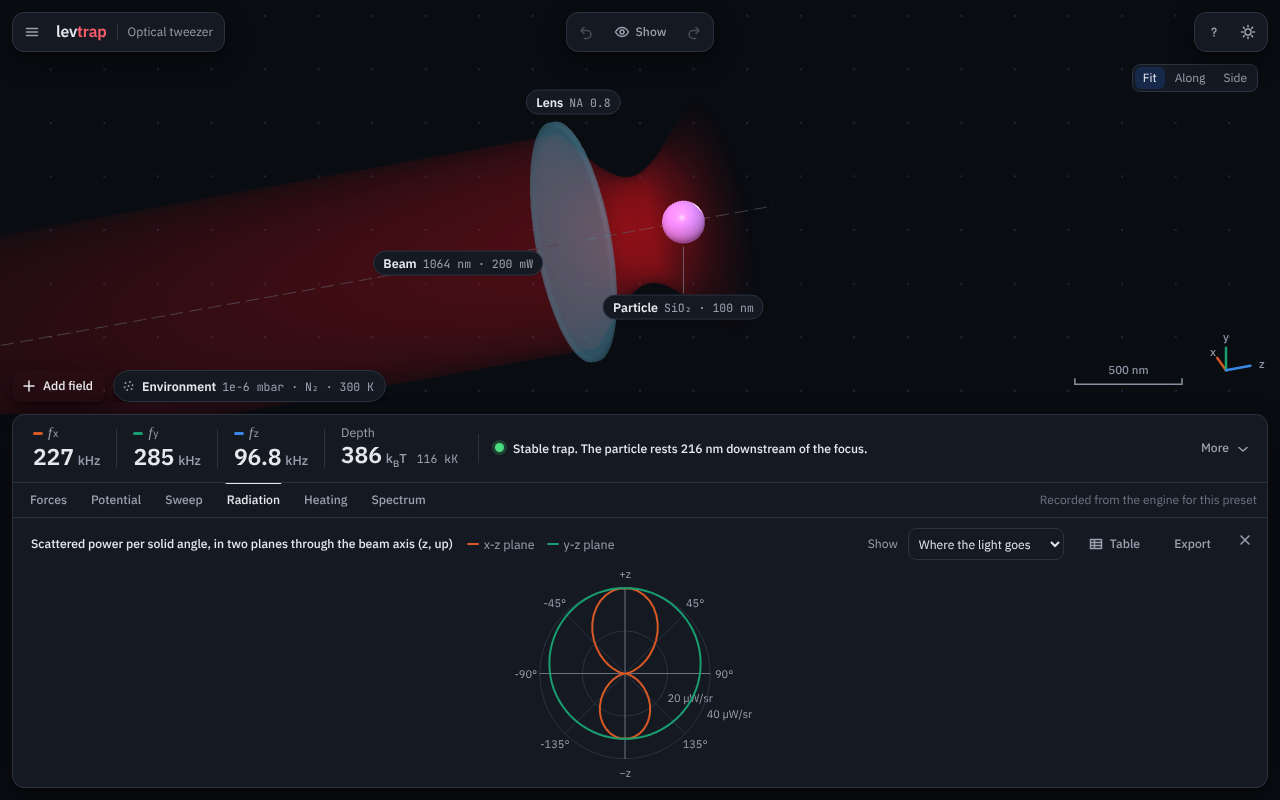
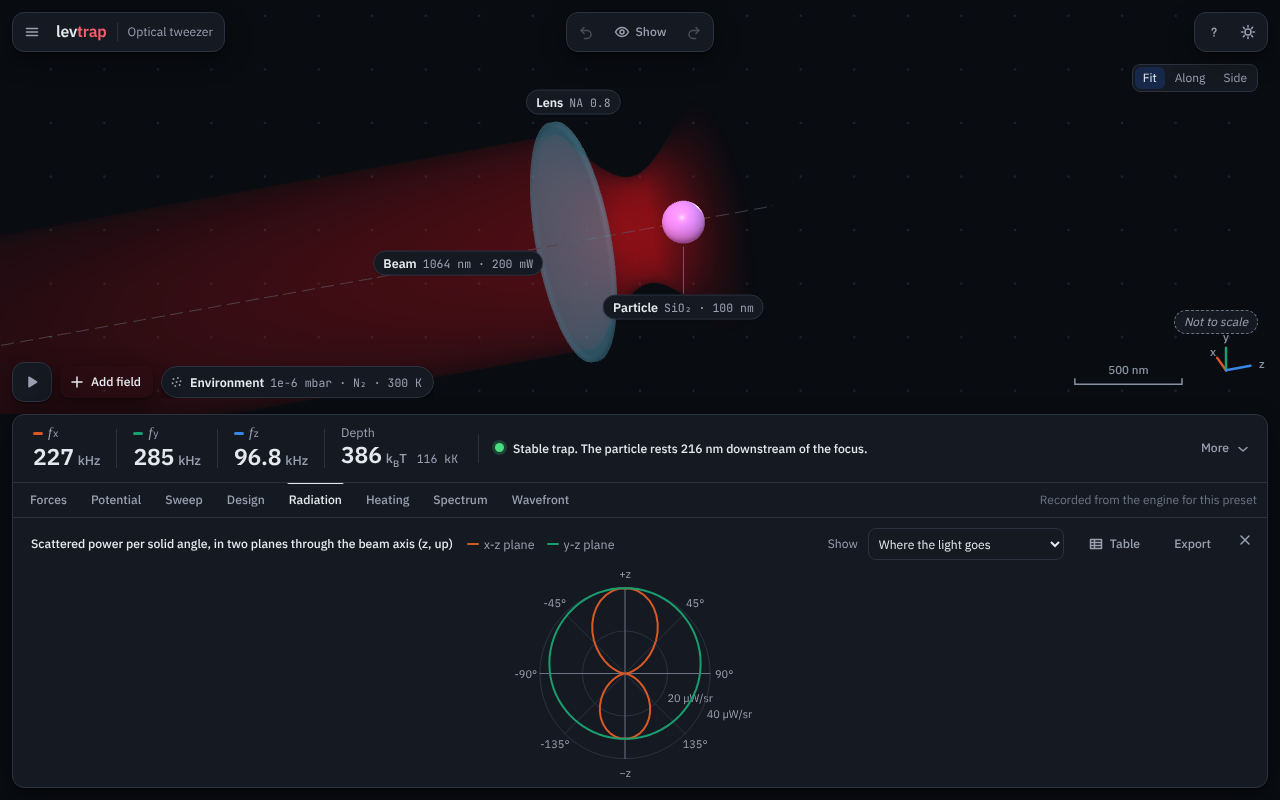
#75: the Radiation controls fit their toolbar; the legend names the axis
- a field's label column (minmax(0, 1fr)) shrank to nothing beside the
  plot title ('Sh', 'Le'): the Radiation tab's selects sit in a .controls
  row whose labels are as wide as their text and selects 196 px
- the information series are 'along x/y/z' (the title names the lens),
  and the view options are 'Light collected' and 'Position information'
  (the x axis says against NA)
- screenshots: the collection and information views (backward + forward,
  side), light and dark, and the existing Radiation shots

Claude-Session: https://claude.ai/code/session_019er84A64vbK3rQVCb3synE

diff --git a/app/src/screen/plots/tabs.tsx b/app/src/screen/plots/tabs.tsx
@@ -388,8 +388,8 @@ export function RadiationTab({ setup, engine, recorded, onPattern }: TabProps & 
       value={view}
       options={[
         { value: "pattern", label: "Where the light goes" },
-        { value: "collection", label: "Light collected against NA" },
-        { value: "information", label: "Position information against NA" },
+        { value: "collection", label: "Light collected" },
+        { value: "information", label: "Position information" },
       ]}
       onChange={setView}
     />
@@ -407,7 +407,7 @@ export function RadiationTab({ setup, engine, recorded, onPattern }: TabProps & 
             { id: "xz", label: "x-z plane", tone: "x", angle: xz.angle, value: xz.value },
             { id: "yz", label: "y-z plane", tone: "y", angle: yz.angle, value: yz.value },
           ]}
-          controls={choose}
+          controls={<span className={styles.controls}>{choose}</span>}
         />
       </div>
     );
@@ -432,7 +432,8 @@ export function RadiationTab({ setup, engine, recorded, onPattern }: TabProps & 
   } else {
     series = (["x", "y", "z"] as const).map((ax) => ({
       id: ax,
-      label: `${ax}, ${lens.label.toLowerCase()}`,
+      // the title names the lens; the legend names the axis, as the other plots do
+      label: `along ${ax}`,
       tone: ax,
       points: curve(informationAgainstNA(pattern, direction, ax)),
     }));
@@ -443,7 +444,7 @@ export function RadiationTab({ setup, engine, recorded, onPattern }: TabProps & 
     }
   }
   const controls = (
-    <>
+    <span className={styles.controls}>
       {choose}
       {view === "information" && (
         <SelectField<LensDirection>
@@ -454,7 +455,7 @@ export function RadiationTab({ setup, engine, recorded, onPattern }: TabProps & 
           onChange={setDirection}
         />
       )}
-    </>
+    </span>
   );
   return (
     <div className={styles.tab} data-pending={solving.pending || undefined}>

diff --git a/app/src/screen/plots/tabs.module.css b/app/src/screen/plots/tabs.module.css
@@ -120,6 +120,19 @@
   accent-color: var(--focus-ring);
 }
 
+/* selects beside a plot's title: each label as wide as its text, each select as wide as its
+   options (a field's label column is otherwise minmax(0, 1fr), which a toolbar shrinks to nothing) */
+.controls {
+  display: flex;
+  flex-wrap: wrap;
+  align-items: center;
+  gap: 6px 14px;
+}
+
+.controls > * {
+  grid-template-columns: max-content 196px;
+}
+
 /* what lenses of the trapping lens's NA collect, under the Radiation tab's plot (#75) */
 .atTrap {
   flex: none;
